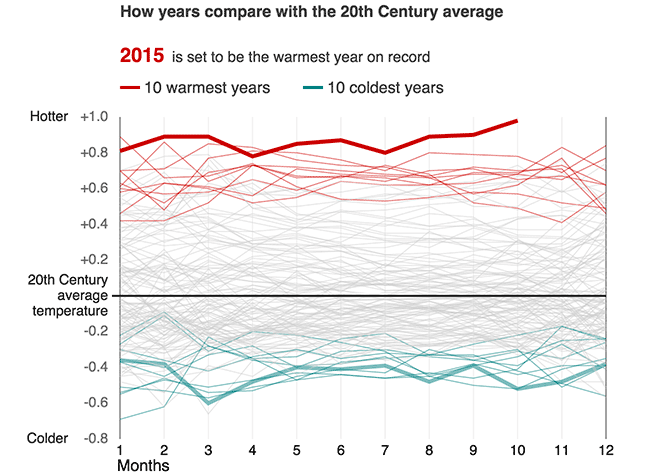
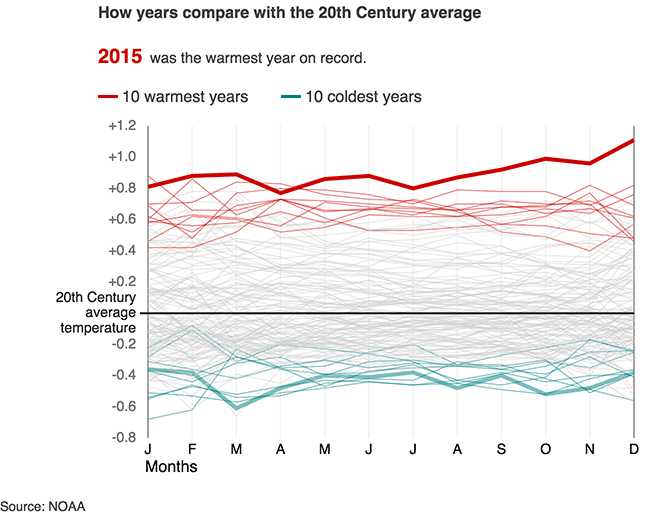
latest data, scale adjustment and fallback image

diff --git a/source/js/data.js b/source/js/data.js
@@ -1,142 +1,142 @@
 define(function () {
     return {
         "temperature": [
-            [1880, [-0.02, -0.14, -0.15, -0.07, -0.09, -0.18, -0.17, -0.09, -0.1, -0.2, -0.28, -0.09]],
-            [1881, [-0.04, -0.04, 0.02, 0.06, 0.01, -0.11, -0.06, -0.07, -0.19, -0.24, -0.23, -0.06]],
-            [1882, [0.08, 0.03, 0.06, -0.14, -0.16, -0.15, -0.08, -0.02, -0.01, -0.22, -0.14, -0.18]],
-            [1883, [-0.28, -0.3, -0.14, -0.18, -0.15, -0.02, -0.1, -0.06, -0.16, -0.18, -0.18, -0.09]],
-            [1884, [-0.2, -0.16, -0.22, -0.2, -0.14, -0.21, -0.31, -0.28, -0.24, -0.19, -0.29, -0.17]],
-            [1885, [-0.45, -0.28, -0.17, -0.28, -0.3, -0.33, -0.26, -0.26, -0.22, -0.15, -0.15, 0.03]],
-            [1886, [-0.13, -0.3, -0.3, -0.19, -0.17, -0.26, -0.18, -0.23, -0.21, -0.25, -0.22, -0.18]],
-            [1887, [-0.4, -0.39, -0.18, -0.21, -0.25, -0.23, -0.28, -0.33, -0.2, -0.31, -0.18, -0.21]],
-            [1888, [-0.41, -0.35, -0.33, -0.19, -0.17, -0.1, -0.13, -0.17, -0.08, 0, -0.06, 0.03]],
-            [1889, [-0.11, -0.01, 0.1, 0.03, -0.04, -0.08, -0.17, -0.16, -0.24, -0.21, -0.3, -0.19]],
-            [1890, [-0.37, -0.45, -0.33, -0.28, -0.4, -0.31, -0.3, -0.34, -0.36, -0.31, -0.35, -0.26]],
-            [1891, [-0.39, -0.54, -0.23, -0.27, -0.15, -0.21, -0.23, -0.24, -0.16, -0.3, -0.4, -0.05]],
-            [1892, [-0.25, -0.14, -0.32, -0.32, -0.31, -0.29, -0.36, -0.34, -0.23, -0.26, -0.48, -0.48]],
-            [1893, [-0.69, -0.62, -0.23, -0.35, -0.34, -0.24, -0.21, -0.33, -0.27, -0.22, -0.17, -0.25]],
-            [1894, [-0.44, -0.22, -0.21, -0.31, -0.31, -0.35, -0.28, -0.28, -0.26, -0.22, -0.3, -0.24]],
-            [1895, [-0.45, -0.42, -0.29, -0.19, -0.21, -0.3, -0.21, -0.23, -0.14, -0.14, -0.17, -0.08]],
-            [1896, [-0.11, -0.08, -0.21, -0.26, -0.1, -0.09, -0.05, -0.07, -0.07, -0.01, -0.17, 0.05]],
-            [1897, [-0.2, -0.12, -0.19, -0.01, -0.03, -0.1, -0.04, -0.08, -0.03, -0.16, -0.25, -0.3]],
-            [1898, [-0.05, -0.29, -0.66, -0.36, -0.3, -0.21, -0.25, -0.24, -0.21, -0.33, -0.25, -0.01]],
-            [1899, [-0.11, -0.29, -0.27, -0.2, -0.13, -0.2, -0.13, -0.07, -0.03, -0.03, 0.12, -0.17]],
-            [1900, [-0.25, -0.1, -0.05, -0.1, -0.04, -0.05, -0.07, -0.07, -0.06, 0.04, -0.14, 0.03]],
-            [1901, [-0.13, -0.07, -0.03, -0.07, -0.13, -0.13, -0.16, -0.13, -0.21, -0.29, -0.15, -0.24]],
-            [1902, [-0.09, -0.04, -0.21, -0.27, -0.27, -0.34, -0.3, -0.27, -0.24, -0.29, -0.35, -0.37]],
-            [1903, [-0.22, -0.09, -0.28, -0.36, -0.39, -0.38, -0.34, -0.44, -0.38, -0.44, -0.39, -0.39]],
-            [1904, [-0.54, -0.47, -0.51, -0.47, -0.43, -0.44, -0.46, -0.43, -0.46, -0.41, -0.17, -0.24]],
-            [1905, [-0.35, -0.62, -0.39, -0.45, -0.29, -0.24, -0.19, -0.22, -0.22, -0.29, -0.09, -0.13]],
-            [1906, [-0.17, -0.24, -0.14, -0.05, -0.22, -0.17, -0.25, -0.23, -0.3, -0.28, -0.36, -0.16]],
-            [1907, [-0.35, -0.4, -0.28, -0.35, -0.47, -0.37, -0.35, -0.33, -0.34, -0.3, -0.51, -0.39]],
-            [1908, [-0.36, -0.38, -0.6, -0.48, -0.4, -0.41, -0.39, -0.48, -0.39, -0.52, -0.48, -0.38]],
-            [1909, [-0.55, -0.46, -0.54, -0.53, -0.45, -0.41, -0.43, -0.3, -0.36, -0.39, -0.27, -0.41]],
-            [1910, [-0.3, -0.36, -0.42, -0.34, -0.3, -0.35, -0.32, -0.33, -0.33, -0.42, -0.49, -0.56]],
-            [1911, [-0.51, -0.53, -0.57, -0.51, -0.47, -0.44, -0.46, -0.45, -0.39, -0.34, -0.25, -0.24]],
-            [1912, [-0.27, -0.11, -0.31, -0.2, -0.22, -0.26, -0.31, -0.45, -0.5, -0.52, -0.41, -0.35]],
-            [1913, [-0.35, -0.39, -0.41, -0.35, -0.39, -0.38, -0.35, -0.32, -0.35, -0.31, -0.13, -0.04]],
-            [1914, [0.1, -0.12, -0.16, -0.25, -0.16, -0.19, -0.2, -0.17, -0.17, -0.09, -0.12, -0.1]],
-            [1915, [-0.13, -0.01, -0.1, 0.03, -0.06, -0.08, -0.02, -0.07, -0.11, -0.16, 0, -0.04]],
-            [1916, [-0.17, -0.17, -0.29, -0.19, -0.21, -0.38, -0.28, -0.27, -0.25, -0.26, -0.39, -0.57]],
-            [1917, [-0.42, -0.46, -0.42, -0.31, -0.44, -0.33, -0.16, -0.17, -0.05, -0.25, -0.12, -0.52]],
-            [1918, [-0.2, -0.28, -0.17, -0.29, -0.27, -0.16, -0.19, -0.16, -0.13, -0.08, -0.1, -0.31]],
-            [1919, [-0.23, -0.04, -0.23, -0.06, -0.17, -0.22, -0.2, -0.2, -0.17, -0.21, -0.31, -0.29]],
-            [1920, [-0.11, -0.22, -0.05, -0.2, -0.16, -0.25, -0.23, -0.22, -0.17, -0.2, -0.24, -0.38]],
-            [1921, [-0.05, -0.14, -0.22, -0.2, -0.18, -0.16, -0.11, -0.19, -0.14, -0.06, -0.18, -0.08]],
-            [1922, [-0.31, -0.29, -0.07, -0.12, -0.26, -0.28, -0.26, -0.27, -0.25, -0.24, -0.19, -0.15]],
-            [1923, [-0.21, -0.37, -0.26, -0.33, -0.24, -0.19, -0.27, -0.28, -0.24, -0.15, 0.04, 0.01]],
-            [1924, [-0.24, -0.18, -0.11, -0.24, -0.19, -0.22, -0.21, -0.28, -0.28, -0.28, -0.29, -0.4]],
-            [1925, [-0.31, -0.27, -0.16, -0.16, -0.22, -0.22, -0.2, -0.13, -0.1, -0.12, 0.06, 0.14]],
-            [1926, [0.17, 0.09, 0.08, -0.13, -0.13, -0.12, -0.15, -0.08, -0.1, -0.08, -0.07, -0.2]],
-            [1927, [-0.17, -0.18, -0.25, -0.22, -0.22, -0.19, -0.1, -0.11, -0.02, 0.02, -0.03, -0.3]],
-            [1928, [-0.07, -0.14, -0.26, -0.24, -0.18, -0.27, -0.17, -0.2, -0.18, -0.12, -0.06, -0.16]],
-            [1929, [-0.48, -0.54, -0.26, -0.3, -0.29, -0.27, -0.27, -0.21, -0.21, -0.12, -0.09, -0.51]],
-            [1930, [-0.34, -0.2, -0.04, -0.19, -0.2, -0.07, -0.06, -0.08, -0.1, 0, 0.14, 0.01]],
-            [1931, [-0.05, -0.22, -0.01, -0.17, -0.16, -0.02, -0.02, -0.01, -0.01, 0.01, -0.11, -0.11]],
-            [1932, [0.16, -0.18, -0.19, -0.04, -0.17, -0.16, -0.11, -0.18, -0.08, -0.1, -0.2, -0.19]],
-            [1933, [-0.31, -0.32, -0.25, -0.21, -0.21, -0.2, -0.18, -0.19, -0.22, -0.19, -0.26, -0.41]],
-            [1934, [-0.31, -0.02, -0.26, -0.24, -0.05, -0.01, -0.1, -0.06, -0.13, -0.07, 0, -0.03]],
-            [1935, [-0.29, 0.16, -0.15, -0.26, -0.21, -0.17, -0.12, -0.1, -0.09, -0.01, -0.27, -0.17]],
-            [1936, [-0.26, -0.32, -0.21, -0.18, -0.12, -0.11, -0.01, -0.06, -0.04, -0.03, -0.03, -0.02]],
-            [1937, [-0.17, 0.04, -0.18, -0.13, -0.02, 0.01, 0, 0.09, 0.13, 0.11, 0.01, -0.09]],
-            [1938, [-0.04, -0.05, 0.03, 0.04, -0.02, -0.1, -0.05, -0.02, 0.03, 0.07, 0, -0.26]],
-            [1939, [-0.17, -0.11, -0.19, -0.13, -0.04, -0.01, 0, 0.05, 0.01, -0.05, 0.04, 0.4]],
-            [1940, [-0.12, 0.05, 0.07, 0.12, 0.05, 0.1, 0.14, 0.09, 0.15, 0.1, 0.1, 0.27]],
-            [1941, [0.18, 0.23, 0.1, 0.22, 0.24, 0.16, 0.2, 0.17, 0.08, 0.31, 0.22, 0.2]],
-            [1942, [0.29, 0.09, 0.17, 0.18, 0.16, 0.2, 0.07, 0.04, 0.11, 0.14, 0.16, 0.15]],
-            [1943, [-0.03, 0.16, 0.07, 0.16, 0.13, 0.02, 0.18, 0.1, 0.14, 0.31, 0.24, 0.35]],
-            [1944, [0.42, 0.3, 0.37, 0.27, 0.26, 0.33, 0.31, 0.27, 0.38, 0.32, 0.14, 0.09]],
-            [1945, [0.16, 0.02, 0.1, 0.27, 0.17, 0.14, 0.16, 0.36, 0.26, 0.25, 0.19, -0.05]],
-            [1946, [0.22, 0.09, 0, 0.17, -0.03, -0.11, -0.04, -0.07, -0.02, -0.01, -0.02, -0.27]],
-            [1947, [-0.19, -0.08, -0.02, 0.01, -0.03, 0.01, -0.02, -0.07, -0.14, 0.05, -0.03, -0.15]],
-            [1948, [0.04, -0.1, -0.19, -0.07, 0.14, -0.02, -0.06, -0.03, -0.11, -0.07, -0.07, -0.12]],
-            [1949, [0.11, -0.15, -0.08, 0, -0.01, -0.16, -0.08, -0.03, -0.08, -0.04, -0.06, -0.19]],
-            [1950, [-0.28, -0.24, -0.09, -0.18, -0.06, -0.06, -0.11, -0.14, -0.11, -0.17, -0.36, -0.18]],
-            [1951, [-0.29, -0.41, -0.17, -0.09, 0.05, 0.03, 0.1, 0.11, 0.13, 0.11, 0.02, 0.21]],
-            [1952, [0.15, 0.09, -0.05, 0.06, 0.03, 0.04, 0.07, 0.06, 0.06, -0.04, -0.2, -0.01]],
-            [1953, [0.1, 0.15, 0.15, 0.18, 0.14, 0.12, 0.06, 0.08, 0.06, 0.07, -0.06, 0.05]],
-            [1954, [-0.24, -0.09, -0.09, -0.18, -0.2, -0.12, -0.12, -0.09, -0.06, -0.07, 0.04, -0.19]],
-            [1955, [0.09, -0.13, -0.31, -0.24, -0.13, -0.07, -0.09, -0.03, -0.1, -0.13, -0.24, -0.27]],
-            [1956, [-0.18, -0.28, -0.2, -0.29, -0.23, -0.15, -0.14, -0.19, -0.26, -0.2, -0.16, -0.16]],
-            [1957, [-0.12, -0.11, -0.07, -0.02, 0.11, 0.16, 0.06, 0.13, 0.07, 0.01, 0.13, 0.23]],
-            [1958, [0.3, 0.21, 0.12, 0.11, 0.1, 0.06, 0.06, 0.05, 0.02, 0.04, 0.09, 0.14]],
-            [1959, [0.12, 0.07, 0.2, 0.11, 0.02, 0.08, 0.06, 0.05, 0.09, -0.02, -0.08, -0.04]],
-            [1960, [0, 0.18, -0.21, -0.1, -0.09, 0.08, 0.03, 0.04, 0.06, 0.04, -0.05, 0.22]],
-            [1961, [0.12, 0.18, 0.16, 0.13, 0.16, 0.15, 0.03, 0.03, -0.01, -0.04, 0.01, -0.02]],
-            [1962, [0.13, 0.17, 0.12, 0.08, 0.06, 0.06, 0.09, 0.05, 0.06, 0.08, 0.07, 0.09]],
-            [1963, [0.04, 0.26, -0.03, 0, 0.01, 0.05, 0.13, 0.16, 0.16, 0.21, 0.19, 0.08]],
-            [1964, [0.05, -0.11, -0.15, -0.19, -0.1, -0.1, -0.11, -0.17, -0.21, -0.27, -0.21, -0.26]],
-            [1965, [-0.07, -0.2, -0.1, -0.19, -0.08, -0.04, -0.09, -0.05, -0.05, 0.02, -0.09, -0.02]],
-            [1966, [-0.05, -0.04, 0, -0.09, -0.04, 0.06, 0.07, 0.02, 0.02, -0.06, -0.05, -0.13]],
-            [1967, [-0.11, -0.17, 0, 0, 0.12, -0.03, -0.02, -0.01, -0.03, 0.13, -0.02, -0.04]],
-            [1968, [-0.19, -0.13, 0.15, -0.07, -0.08, -0.02, -0.02, -0.02, -0.01, 0.04, 0.01, -0.04]],
-            [1969, [-0.13, -0.11, 0.12, 0.19, 0.17, 0.08, 0.09, 0.1, 0.08, 0.07, 0.19, 0.25]],
-            [1970, [0.12, 0.23, 0.03, 0.13, 0.04, 0.03, -0.02, -0.02, 0, -0.04, 0.02, -0.1]],
-            [1971, [-0.01, -0.22, -0.14, -0.13, -0.09, -0.13, -0.07, -0.07, -0.05, -0.08, 0.04, -0.02]],
-            [1972, [-0.24, -0.17, 0, 0.04, 0.01, 0.08, 0.06, 0.09, 0.02, 0.09, 0.08, 0.25]],
-            [1973, [0.26, 0.37, 0.33, 0.25, 0.21, 0.19, 0.12, 0.08, 0.05, 0.04, 0.02, 0.03]],
-            [1974, [-0.2, -0.26, -0.05, -0.04, -0.03, -0.04, 0.02, 0.01, -0.04, -0.08, -0.07, -0.1]],
-            [1975, [0.12, 0.03, 0.11, 0.08, 0.07, 0.03, 0, -0.07, 0.02, -0.12, -0.15, -0.09]],
-            [1976, [-0.02, -0.12, -0.24, -0.02, -0.12, -0.07, -0.09, -0.09, -0.04, -0.18, -0.04, 0.09]],
-            [1977, [0.06, 0.24, 0.31, 0.28, 0.24, 0.25, 0.17, 0.14, 0.19, 0.12, 0.26, 0.11]],
-            [1978, [0.16, 0.13, 0.22, 0.13, 0.06, 0.05, 0.07, 0, 0.07, 0.06, 0.22, 0.15]],
-            [1979, [0.16, 0.09, 0.24, 0.11, 0.16, 0.22, 0.17, 0.23, 0.25, 0.29, 0.29, 0.5]],
-            [1980, [0.31, 0.35, 0.24, 0.31, 0.32, 0.25, 0.22, 0.19, 0.2, 0.18, 0.33, 0.27]],
-            [1981, [0.47, 0.36, 0.41, 0.36, 0.26, 0.28, 0.23, 0.24, 0.19, 0.17, 0.21, 0.42]],
-            [1982, [0.13, 0.16, 0.08, 0.21, 0.19, 0.12, 0.14, 0.14, 0.23, 0.18, 0.15, 0.44]],
-            [1983, [0.52, 0.48, 0.43, 0.29, 0.29, 0.27, 0.27, 0.32, 0.32, 0.21, 0.43, 0.27]],
-            [1984, [0.28, 0.18, 0.27, 0.15, 0.28, 0.13, 0.12, 0.17, 0.14, 0.12, 0.04, -0.09]],
-            [1985, [0.18, 0.02, 0.19, 0.15, 0.2, 0.13, 0.08, 0.13, 0.1, 0.13, 0.12, 0.2]],
-            [1986, [0.33, 0.28, 0.3, 0.26, 0.25, 0.25, 0.17, 0.17, 0.17, 0.21, 0.15, 0.22]],
-            [1987, [0.31, 0.5, 0.26, 0.31, 0.34, 0.3, 0.42, 0.39, 0.43, 0.34, 0.33, 0.53]],
-            [1988, [0.55, 0.39, 0.49, 0.44, 0.38, 0.39, 0.34, 0.32, 0.32, 0.3, 0.23, 0.36]],
-            [1989, [0.22, 0.31, 0.34, 0.29, 0.28, 0.28, 0.3, 0.3, 0.3, 0.3, 0.25, 0.4]],
-            [1990, [0.36, 0.4, 0.73, 0.49, 0.43, 0.41, 0.35, 0.35, 0.31, 0.43, 0.48, 0.45]],
-            [1991, [0.45, 0.47, 0.37, 0.52, 0.41, 0.48, 0.44, 0.39, 0.39, 0.33, 0.32, 0.31]],
-            [1992, [0.47, 0.45, 0.44, 0.29, 0.33, 0.28, 0.14, 0.14, 0.06, 0.12, 0.09, 0.28]],
-            [1993, [0.38, 0.4, 0.42, 0.32, 0.35, 0.29, 0.23, 0.21, 0.17, 0.25, 0.09, 0.32]],
-            [1994, [0.29, 0.08, 0.36, 0.36, 0.38, 0.38, 0.31, 0.31, 0.33, 0.43, 0.45, 0.4]],
-            [1995, [0.55, 0.69, 0.46, 0.41, 0.36, 0.47, 0.43, 0.5, 0.39, 0.44, 0.45, 0.35]],
-            [1996, [0.26, 0.46, 0.32, 0.27, 0.39, 0.35, 0.32, 0.32, 0.27, 0.23, 0.28, 0.39]],
-            [1997, [0.38, 0.43, 0.46, 0.45, 0.42, 0.53, 0.51, 0.55, 0.62, 0.64, 0.58, 0.63]],
-            [1998, [0.61, 0.86, 0.64, 0.73, 0.67, 0.66, 0.73, 0.68, 0.52, 0.49, 0.41, 0.58]],
-            [1999, [0.5, 0.67, 0.37, 0.46, 0.4, 0.42, 0.4, 0.37, 0.4, 0.37, 0.37, 0.58]],
-            [2000, [0.35, 0.54, 0.56, 0.63, 0.46, 0.41, 0.39, 0.46, 0.44, 0.3, 0.26, 0.32]],
-            [2001, [0.47, 0.4, 0.63, 0.57, 0.6, 0.53, 0.56, 0.6, 0.5, 0.5, 0.69, 0.51]],
-            [2002, [0.7, 0.78, 0.79, 0.57, 0.56, 0.58, 0.62, 0.54, 0.57, 0.48, 0.59, 0.44]],
-            [2003, [0.69, 0.56, 0.57, 0.56, 0.6, 0.54, 0.54, 0.62, 0.64, 0.73, 0.58, 0.74]],
-            [2004, [0.6, 0.72, 0.7, 0.6, 0.45, 0.47, 0.48, 0.51, 0.53, 0.62, 0.76, 0.51]],
-            [2005, [0.63, 0.52, 0.69, 0.73, 0.66, 0.67, 0.66, 0.62, 0.69, 0.69, 0.73, 0.62]],
-            [2006, [0.46, 0.63, 0.6, 0.52, 0.55, 0.64, 0.62, 0.62, 0.63, 0.68, 0.65, 0.77]],
-            [2007, [0.89, 0.66, 0.67, 0.74, 0.61, 0.54, 0.53, 0.55, 0.58, 0.57, 0.52, 0.49]],
-            [2008, [0.28, 0.38, 0.77, 0.49, 0.5, 0.53, 0.57, 0.56, 0.53, 0.67, 0.67, 0.57]],
-            [2009, [0.6, 0.57, 0.58, 0.65, 0.59, 0.67, 0.64, 0.7, 0.71, 0.65, 0.67, 0.62]],
-            [2010, [0.7, 0.71, 0.85, 0.83, 0.76, 0.73, 0.72, 0.66, 0.57, 0.62, 0.77, 0.48]],
-            [2011, [0.47, 0.49, 0.59, 0.65, 0.57, 0.64, 0.62, 0.61, 0.6, 0.64, 0.49, 0.55]],
-            [2012, [0.42, 0.42, 0.52, 0.73, 0.72, 0.7, 0.68, 0.67, 0.72, 0.7, 0.71, 0.46]],
-            [2013, [0.58, 0.63, 0.61, 0.56, 0.71, 0.68, 0.67, 0.66, 0.68, 0.68, 0.83, 0.7]],
-            [2014, [0.7, 0.48, 0.77, 0.81, 0.8, 0.76, 0.7, 0.8, 0.79, 0.78, 0.69, 0.84]],
-            [2015, [0.81, 0.89, 0.89, 0.78, 0.85, 0.87, 0.8, 0.89, 0.9, 0.99, 0.97, null]]
+            [1880, [-0.01,-0.13,-0.15,-0.06,-0.09,-0.18,-0.16,-0.09,-0.1,-0.19,-0.28,-0.09]],
+            [1881, [-0.03,-0.03,0.02,0.06,0.01,-0.11,-0.05,-0.06,-0.19,-0.23,-0.23,-0.05]],
+            [1882, [0.08,0.03,0.06,-0.13,-0.16,-0.15,-0.07,-0.01,0,-0.22,-0.14,-0.18]],
+            [1883, [-0.28,-0.3,-0.14,-0.18,-0.15,-0.01,-0.09,-0.06,-0.16,-0.17,-0.18,-0.09]],
+            [1884, [-0.2,-0.16,-0.22,-0.19,-0.14,-0.21,-0.31,-0.28,-0.24,-0.19,-0.28,-0.16]],
+            [1885, [-0.44,-0.27,-0.16,-0.27,-0.29,-0.32,-0.25,-0.25,-0.21,-0.14,-0.14,0.04]],
+            [1886, [-0.12,-0.29,-0.29,-0.18,-0.17,-0.26,-0.17,-0.23,-0.21,-0.24,-0.21,-0.17]],
+            [1887, [-0.39,-0.39,-0.18,-0.21,-0.25,-0.23,-0.28,-0.33,-0.2,-0.31,-0.17,-0.21]],
+            [1888, [-0.41,-0.34,-0.32,-0.19,-0.17,-0.11,-0.13,-0.17,-0.08,0,-0.06,0.03]],
+            [1889, [-0.11,0,0.1,0.04,-0.04,-0.08,-0.17,-0.16,-0.24,-0.21,-0.3,-0.19]],
+            [1890, [-0.37,-0.44,-0.32,-0.28,-0.4,-0.31,-0.3,-0.34,-0.36,-0.31,-0.35,-0.25]],
+            [1891, [-0.39,-0.53,-0.22,-0.27,-0.15,-0.21,-0.23,-0.23,-0.16,-0.3,-0.4,-0.05]],
+            [1892, [-0.25,-0.14,-0.32,-0.32,-0.31,-0.29,-0.36,-0.34,-0.23,-0.26,-0.48,-0.48]],
+            [1893, [-0.68,-0.62,-0.23,-0.35,-0.34,-0.25,-0.2,-0.33,-0.27,-0.22,-0.17,-0.25]],
+            [1894, [-0.44,-0.22,-0.21,-0.31,-0.31,-0.35,-0.28,-0.28,-0.26,-0.22,-0.3,-0.24]],
+            [1895, [-0.44,-0.42,-0.29,-0.19,-0.21,-0.3,-0.2,-0.23,-0.14,-0.14,-0.16,-0.08]],
+            [1896, [-0.11,-0.08,-0.21,-0.27,-0.1,-0.09,-0.05,-0.07,-0.07,-0.01,-0.17,0.05]],
+            [1897, [-0.2,-0.12,-0.19,-0.01,-0.03,-0.1,-0.04,-0.08,-0.03,-0.16,-0.25,-0.3]],
+            [1898, [-0.05,-0.29,-0.66,-0.36,-0.3,-0.21,-0.25,-0.23,-0.21,-0.33,-0.25,-0.03]],
+            [1899, [-0.1,-0.29,-0.26,-0.2,-0.12,-0.22,-0.12,-0.07,-0.03,-0.03,0.14,-0.18]],
+            [1900, [-0.25,-0.1,-0.05,-0.1,-0.04,-0.05,-0.08,-0.07,-0.07,0.04,-0.14,0.03]],
+            [1901, [-0.13,-0.08,-0.04,-0.07,-0.13,-0.14,-0.16,-0.14,-0.21,-0.28,-0.14,-0.24]],
+            [1902, [-0.09,-0.05,-0.2,-0.27,-0.27,-0.33,-0.3,-0.27,-0.24,-0.29,-0.35,-0.37]],
+            [1903, [-0.22,-0.08,-0.28,-0.36,-0.39,-0.38,-0.33,-0.43,-0.38,-0.44,-0.4,-0.39]],
+            [1904, [-0.54,-0.47,-0.52,-0.47,-0.43,-0.44,-0.46,-0.43,-0.46,-0.41,-0.17,-0.24]],
+            [1905, [-0.36,-0.62,-0.39,-0.45,-0.29,-0.25,-0.19,-0.22,-0.22,-0.3,-0.09,-0.13]],
+            [1906, [-0.17,-0.24,-0.14,-0.05,-0.21,-0.17,-0.24,-0.23,-0.3,-0.28,-0.37,-0.15]],
+            [1907, [-0.35,-0.4,-0.28,-0.35,-0.47,-0.37,-0.35,-0.34,-0.34,-0.3,-0.51,-0.39]],
+            [1908, [-0.36,-0.38,-0.61,-0.48,-0.4,-0.41,-0.38,-0.48,-0.4,-0.52,-0.48,-0.38]],
+            [1909, [-0.55,-0.46,-0.54,-0.53,-0.45,-0.42,-0.43,-0.31,-0.36,-0.39,-0.28,-0.41]],
+            [1910, [-0.31,-0.36,-0.42,-0.34,-0.3,-0.35,-0.32,-0.33,-0.33,-0.42,-0.49,-0.56]],
+            [1911, [-0.51,-0.53,-0.57,-0.51,-0.48,-0.44,-0.46,-0.45,-0.39,-0.34,-0.25,-0.24]],
+            [1912, [-0.28,-0.11,-0.31,-0.2,-0.23,-0.26,-0.31,-0.45,-0.49,-0.52,-0.42,-0.36]],
+            [1913, [-0.35,-0.39,-0.41,-0.35,-0.4,-0.38,-0.35,-0.33,-0.35,-0.31,-0.14,-0.04]],
+            [1914, [0.1,-0.12,-0.16,-0.25,-0.16,-0.19,-0.21,-0.17,-0.18,-0.09,-0.12,-0.1]],
+            [1915, [-0.13,-0.01,-0.1,0.02,-0.06,-0.08,-0.02,-0.07,-0.11,-0.17,-0.01,-0.05]],
+            [1916, [-0.17,-0.17,-0.29,-0.19,-0.22,-0.38,-0.28,-0.27,-0.26,-0.26,-0.39,-0.57]],
+            [1917, [-0.42,-0.47,-0.42,-0.31,-0.45,-0.34,-0.17,-0.17,-0.06,-0.26,-0.13,-0.53]],
+            [1918, [-0.21,-0.29,-0.18,-0.29,-0.27,-0.17,-0.19,-0.17,-0.14,-0.09,-0.11,-0.32]],
+            [1919, [-0.24,-0.05,-0.24,-0.07,-0.18,-0.23,-0.21,-0.21,-0.18,-0.22,-0.32,-0.3]],
+            [1920, [-0.12,-0.23,-0.06,-0.21,-0.17,-0.26,-0.24,-0.23,-0.18,-0.21,-0.25,-0.39]],
+            [1921, [-0.06,-0.15,-0.22,-0.2,-0.19,-0.16,-0.11,-0.19,-0.15,-0.06,-0.18,-0.08]],
+            [1922, [-0.32,-0.29,-0.08,-0.13,-0.26,-0.28,-0.26,-0.27,-0.25,-0.25,-0.19,-0.15]],
+            [1923, [-0.21,-0.37,-0.26,-0.33,-0.25,-0.19,-0.28,-0.28,-0.24,-0.16,0.03,0.01]],
+            [1924, [-0.25,-0.18,-0.11,-0.24,-0.19,-0.22,-0.22,-0.29,-0.28,-0.29,-0.29,-0.4]],
+            [1925, [-0.32,-0.28,-0.17,-0.16,-0.22,-0.23,-0.2,-0.13,-0.1,-0.12,0.06,0.14]],
+            [1926, [0.17,0.09,0.08,-0.13,-0.13,-0.12,-0.15,-0.08,-0.1,-0.08,-0.07,-0.2]],
+            [1927, [-0.17,-0.18,-0.25,-0.21,-0.22,-0.2,-0.1,-0.11,-0.02,0.02,-0.03,-0.3]],
+            [1928, [-0.07,-0.14,-0.26,-0.24,-0.18,-0.27,-0.17,-0.19,-0.18,-0.12,-0.06,-0.16]],
+            [1929, [-0.47,-0.54,-0.26,-0.29,-0.28,-0.27,-0.27,-0.2,-0.2,-0.11,-0.09,-0.5]],
+            [1930, [-0.34,-0.2,-0.04,-0.19,-0.19,-0.07,-0.06,-0.08,-0.1,0.01,0.14,0.01]],
+            [1931, [-0.05,-0.21,0,-0.16,-0.15,-0.02,-0.01,-0.01,0,0.02,-0.11,-0.1]],
+            [1932, [0.16,-0.17,-0.18,-0.03,-0.16,-0.15,-0.1,-0.17,-0.07,-0.08,-0.19,-0.18]],
+            [1933, [-0.3,-0.31,-0.24,-0.2,-0.2,-0.19,-0.17,-0.18,-0.21,-0.18,-0.25,-0.4]],
+            [1934, [-0.3,-0.01,-0.25,-0.23,-0.04,0,-0.09,-0.05,-0.12,-0.06,0.01,-0.02]],
+            [1935, [-0.29,0.17,-0.15,-0.25,-0.2,-0.16,-0.11,-0.1,-0.09,-0.01,-0.26,-0.17]],
+            [1936, [-0.25,-0.31,-0.21,-0.18,-0.11,-0.1,-0.01,-0.05,-0.03,-0.02,-0.02,-0.01]],
+            [1937, [-0.17,0.04,-0.18,-0.12,-0.01,0.02,0,0.1,0.14,0.12,0.01,-0.09]],
+            [1938, [-0.03,-0.05,0.04,0.05,-0.01,-0.09,-0.05,-0.01,0.04,0.08,0.01,-0.25]],
+            [1939, [-0.16,-0.11,-0.18,-0.13,-0.03,0,0.01,0.06,0.01,-0.04,0.05,0.41]],
+            [1940, [-0.12,0.05,0.07,0.13,0.06,0.1,0.15,0.1,0.15,0.1,0.1,0.27]],
+            [1941, [0.18,0.23,0.11,0.23,0.25,0.17,0.21,0.18,0.09,0.31,0.22,0.21]],
+            [1942, [0.3,0.1,0.18,0.19,0.17,0.21,0.08,0.05,0.12,0.15,0.17,0.15]],
+            [1943, [-0.02,0.17,0.08,0.17,0.13,0.02,0.19,0.1,0.15,0.31,0.25,0.36]],
+            [1944, [0.42,0.31,0.37,0.27,0.26,0.34,0.31,0.28,0.38,0.32,0.15,0.1]],
+            [1945, [0.16,0.02,0.11,0.28,0.17,0.14,0.17,0.36,0.26,0.26,0.2,-0.04]],
+            [1946, [0.23,0.09,0,0.18,-0.03,-0.1,-0.04,-0.07,-0.02,0,-0.01,-0.27]],
+            [1947, [-0.18,-0.08,-0.01,0.02,-0.02,0.02,-0.02,-0.06,-0.13,0.06,-0.02,-0.14]],
+            [1948, [0.05,-0.09,-0.19,-0.07,0.14,-0.02,-0.06,-0.02,-0.1,-0.07,-0.06,-0.11]],
+            [1949, [0.12,-0.15,-0.07,0,-0.01,-0.15,-0.07,-0.02,-0.07,-0.03,-0.05,-0.18]],
+            [1950, [-0.28,-0.24,-0.08,-0.17,-0.05,-0.06,-0.1,-0.14,-0.11,-0.16,-0.36,-0.18]],
+            [1951, [-0.29,-0.41,-0.17,-0.08,0.06,0.04,0.11,0.11,0.14,0.11,0.03,0.22]],
+            [1952, [0.15,0.09,-0.04,0.07,0.04,0.04,0.07,0.07,0.07,-0.04,-0.2,-0.01]],
+            [1953, [0.11,0.16,0.16,0.19,0.15,0.13,0.07,0.08,0.07,0.07,-0.06,0.05]],
+            [1954, [-0.23,-0.09,-0.09,-0.17,-0.2,-0.12,-0.12,-0.09,-0.06,-0.07,0.04,-0.19]],
+            [1955, [0.09,-0.13,-0.31,-0.24,-0.13,-0.07,-0.09,-0.03,-0.09,-0.12,-0.24,-0.27]],
+            [1956, [-0.18,-0.27,-0.2,-0.29,-0.23,-0.15,-0.14,-0.19,-0.25,-0.2,-0.16,-0.15]],
+            [1957, [-0.12,-0.11,-0.07,-0.02,0.11,0.16,0.06,0.13,0.07,0.01,0.13,0.23]],
+            [1958, [0.29,0.21,0.12,0.11,0.1,0.06,0.07,0.05,0.02,0.04,0.09,0.14]],
+            [1959, [0.13,0.07,0.2,0.12,0.03,0.08,0.07,0.05,0.09,-0.02,-0.08,-0.04]],
+            [1960, [0,0.19,-0.21,-0.1,-0.08,0.08,0.03,0.05,0.06,0.04,-0.05,0.23]],
+            [1961, [0.12,0.17,0.16,0.13,0.16,0.15,0.03,0.03,-0.01,-0.04,0.01,-0.02]],
+            [1962, [0.13,0.17,0.12,0.08,0.06,0.06,0.09,0.06,0.06,0.08,0.07,0.08]],
+            [1963, [0.04,0.26,-0.02,0,0.01,0.05,0.13,0.15,0.16,0.21,0.19,0.08]],
+            [1964, [0.05,-0.11,-0.15,-0.19,-0.1,-0.1,-0.11,-0.17,-0.21,-0.27,-0.21,-0.27]],
+            [1965, [-0.07,-0.2,-0.1,-0.19,-0.08,-0.05,-0.09,-0.05,-0.06,0.02,-0.09,-0.02]],
+            [1966, [-0.05,-0.04,-0.01,-0.1,-0.04,0.05,0.06,0.02,0.02,-0.06,-0.05,-0.13]],
+            [1967, [-0.11,-0.17,0,0,0.12,-0.04,-0.02,-0.01,-0.04,0.12,-0.03,-0.04]],
+            [1968, [-0.19,-0.13,0.15,-0.07,-0.08,-0.02,-0.03,-0.02,-0.02,0.04,0.01,-0.05]],
+            [1969, [-0.13,-0.11,0.12,0.19,0.17,0.07,0.09,0.09,0.08,0.07,0.19,0.24]],
+            [1970, [0.12,0.23,0.03,0.13,0.04,0.02,-0.03,-0.02,0,-0.04,0.02,-0.1]],
+            [1971, [-0.01,-0.22,-0.14,-0.13,-0.09,-0.13,-0.07,-0.07,-0.05,-0.08,0.03,-0.02]],
+            [1972, [-0.24,-0.17,0,0.04,0.01,0.08,0.06,0.09,0.02,0.09,0.08,0.25]],
+            [1973, [0.26,0.37,0.33,0.25,0.21,0.19,0.11,0.07,0.05,0.04,0.02,0.03]],
+            [1974, [-0.2,-0.26,-0.05,-0.04,-0.03,-0.04,0.02,0.01,-0.05,-0.08,-0.07,-0.1]],
+            [1975, [0.12,0.03,0.11,0.08,0.07,0.03,0,-0.07,0.01,-0.13,-0.15,-0.09]],
+            [1976, [-0.02,-0.12,-0.24,-0.02,-0.12,-0.08,-0.09,-0.09,-0.05,-0.19,-0.04,0.09]],
+            [1977, [0.06,0.24,0.31,0.28,0.24,0.24,0.17,0.14,0.18,0.11,0.26,0.11]],
+            [1978, [0.16,0.13,0.22,0.13,0.06,0.05,0.07,0,0.07,0.06,0.22,0.15]],
+            [1979, [0.16,0.09,0.24,0.11,0.15,0.21,0.17,0.22,0.25,0.29,0.29,0.5]],
+            [1980, [0.31,0.35,0.24,0.31,0.31,0.24,0.21,0.19,0.2,0.18,0.33,0.26]],
+            [1981, [0.46,0.36,0.41,0.36,0.26,0.28,0.22,0.24,0.18,0.17,0.21,0.42]],
+            [1982, [0.13,0.16,0.08,0.2,0.19,0.12,0.14,0.14,0.23,0.18,0.15,0.43]],
+            [1983, [0.52,0.48,0.43,0.29,0.29,0.26,0.26,0.32,0.32,0.21,0.43,0.27]],
+            [1984, [0.28,0.17,0.27,0.15,0.28,0.13,0.12,0.17,0.14,0.12,0.04,-0.09]],
+            [1985, [0.18,0.02,0.19,0.15,0.2,0.13,0.08,0.13,0.1,0.13,0.12,0.2]],
+            [1986, [0.32,0.28,0.29,0.26,0.25,0.25,0.16,0.16,0.17,0.2,0.15,0.21]],
+            [1987, [0.31,0.5,0.25,0.3,0.33,0.3,0.42,0.38,0.43,0.33,0.33,0.53]],
+            [1988, [0.55,0.39,0.48,0.44,0.38,0.38,0.34,0.32,0.32,0.3,0.23,0.36]],
+            [1989, [0.21,0.3,0.33,0.29,0.28,0.27,0.3,0.3,0.3,0.3,0.25,0.4]],
+            [1990, [0.36,0.4,0.73,0.49,0.43,0.41,0.34,0.35,0.31,0.42,0.47,0.44]],
+            [1991, [0.45,0.46,0.36,0.51,0.41,0.48,0.44,0.38,0.38,0.32,0.31,0.3]],
+            [1992, [0.47,0.45,0.43,0.29,0.33,0.28,0.13,0.14,0.06,0.11,0.09,0.28]],
+            [1993, [0.38,0.39,0.42,0.31,0.34,0.29,0.23,0.21,0.17,0.24,0.09,0.31]],
+            [1994, [0.29,0.08,0.35,0.35,0.38,0.38,0.31,0.31,0.33,0.43,0.45,0.4]],
+            [1995, [0.55,0.68,0.46,0.41,0.35,0.46,0.42,0.5,0.38,0.44,0.45,0.34]],
+            [1996, [0.26,0.45,0.32,0.27,0.39,0.35,0.32,0.32,0.26,0.22,0.28,0.38]],
+            [1997, [0.37,0.43,0.46,0.45,0.42,0.53,0.5,0.54,0.62,0.64,0.58,0.62]],
+            [1998, [0.6,0.86,0.63,0.73,0.66,0.66,0.73,0.67,0.52,0.49,0.4,0.57]],
+            [1999, [0.49,0.66,0.36,0.45,0.4,0.41,0.39,0.36,0.39,0.37,0.36,0.57]],
+            [2000, [0.34,0.54,0.55,0.63,0.46,0.4,0.39,0.45,0.43,0.3,0.25,0.32]],
+            [2001, [0.47,0.39,0.62,0.56,0.59,0.53,0.55,0.6,0.5,0.49,0.68,0.51]],
+            [2002, [0.69,0.78,0.78,0.57,0.56,0.58,0.62,0.53,0.56,0.47,0.59,0.43]],
+            [2003, [0.68,0.56,0.56,0.55,0.59,0.54,0.54,0.62,0.64,0.72,0.57,0.73]],
+            [2004, [0.59,0.72,0.7,0.59,0.44,0.46,0.47,0.51,0.53,0.61,0.75,0.51]],
+            [2005, [0.62,0.52,0.69,0.73,0.65,0.67,0.65,0.62,0.68,0.69,0.72,0.62]],
+            [2006, [0.46,0.62,0.6,0.52,0.55,0.63,0.62,0.62,0.63,0.67,0.64,0.76]],
+            [2007, [0.88,0.66,0.66,0.73,0.61,0.53,0.53,0.55,0.57,0.56,0.51,0.48]],
+            [2008, [0.27,0.37,0.76,0.48,0.5,0.53,0.57,0.55,0.53,0.66,0.67,0.56]],
+            [2009, [0.59,0.56,0.58,0.65,0.58,0.67,0.63,0.7,0.7,0.64,0.67,0.61]],
+            [2010, [0.7,0.71,0.84,0.83,0.76,0.73,0.72,0.65,0.57,0.62,0.77,0.48]],
+            [2011, [0.46,0.49,0.58,0.64,0.57,0.64,0.62,0.61,0.59,0.63,0.48,0.54]],
+            [2012, [0.42,0.42,0.52,0.73,0.72,0.7,0.68,0.66,0.72,0.7,0.7,0.46]],
+            [2013, [0.58,0.63,0.61,0.56,0.71,0.68,0.67,0.66,0.68,0.68,0.82,0.69]],
+            [2014, [0.69,0.48,0.77,0.8,0.79,0.76,0.7,0.79,0.78,0.78,0.69,0.82]],
+            [2015, [0.81,0.88,0.89,0.77,0.86,0.88,0.8,0.87,0.92,0.99,0.96,1.11]]
         ]
     };
 });

diff --git a/source/js/multiLineChart.js b/source/js/multiLineChart.js
@@ -9,7 +9,7 @@ define(['bootstrap', 'd3'], function (news, d3) {
             this.d3El = d3.select(selector);
             this.data = data;
             this.minY = -0.8;
-            this.maxY = 1;
+            this.maxY = 1.2;
             this.anim = 0;
             this.animStopped = false;
             this.hasAnimatedIn = false;
@@ -100,6 +100,8 @@ define(['bootstrap', 'd3'], function (news, d3) {
             });
 
             d3.select(window).on('resize' + multiLineChart.selector, multiLineChart.redraw.bind(multiLineChart));
+
+            multiLineChart.replay();
         },
 
         redraw: function () {
@@ -194,7 +196,7 @@ define(['bootstrap', 'd3'], function (news, d3) {
             multiLineChart.yAxisContainer.selectAll('*').remove();
 
             var yGroup = multiLineChart.yAxisContainer.append('g');
-            for (var j = -0.8; j <= 1; j += 0.2) {
+            for (var j = multiLineChart.minY; j <= multiLineChart.maxY; j += 0.2) {
                 yPos = multiLineChart.yScale(j);
 
                 yGroup.attr('class', 'y-axis-ticks');
@@ -231,13 +233,13 @@ define(['bootstrap', 'd3'], function (news, d3) {
             // // draw y axis extremes labels
             yGroup.append('text')
                 .attr('x', -52)
-                .attr('y', multiLineChart.yScale(-0.8) + 4)
+                .attr('y', multiLineChart.yScale(multiLineChart.minY) + 4)
                 .attr('text-anchor', 'end')
                 .attr('class', 'newsspec_13386__temperature-chart__label--extremes')
                 .text(news.$('.newsspec_13386__line-chart__key--colder').text());
             yGroup.append('text')
                 .attr('x', -52)
-                .attr('y', multiLineChart.yScale(1) + 4)
+                .attr('y', multiLineChart.yScale(multiLineChart.maxY) + 4)
                 .attr('text-anchor', 'end')
                 .attr('class', 'newsspec_13386__temperature-chart__label--extremes')
                 .text(news.$('.newsspec_13386__line-chart__key--hotter').text());
